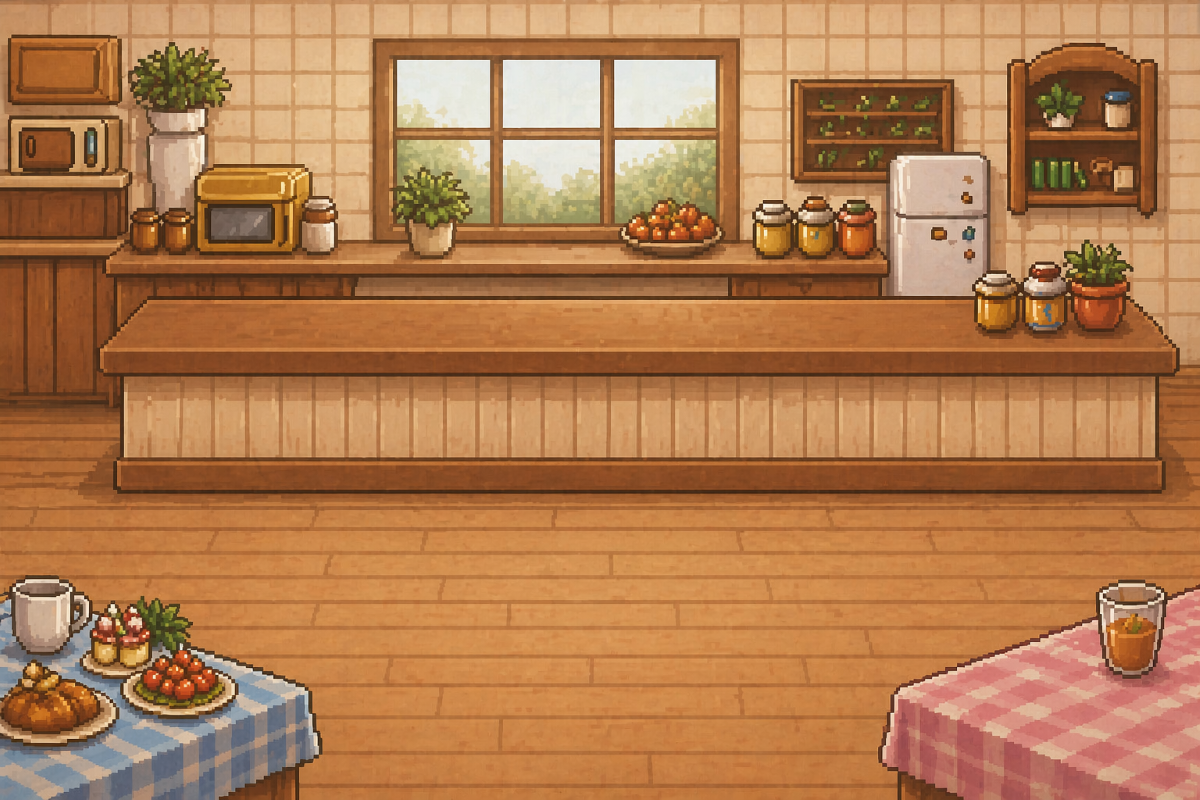
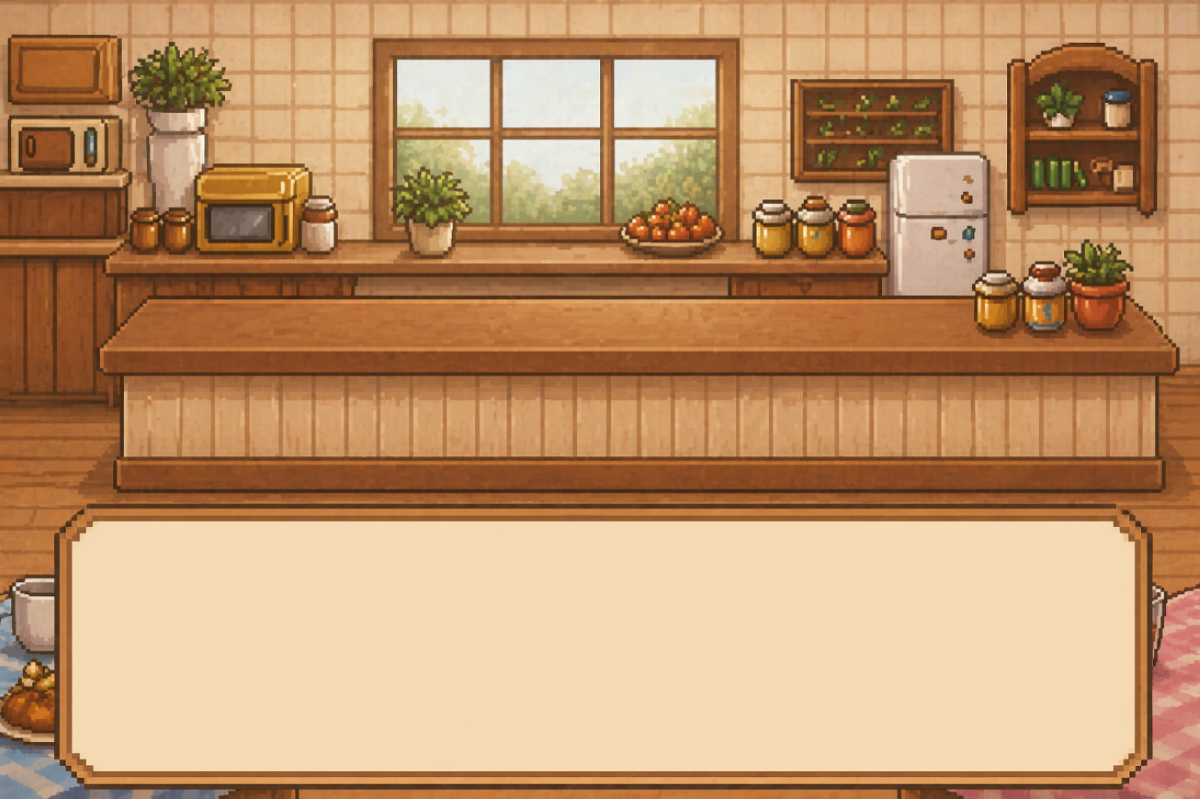
changed delayCounter

diff --git a/Group 5 Simulation/StoryWorld.java b/Group 5 Simulation/StoryWorld.java
@@ -4,12 +4,11 @@ import java.util.ArrayList;
 /**
  * Write a description of class StoryWorld here.
  * 
- * @author (your name) 
+ * @author (Marina with help from Aiza) 
  * @version (a version number or a date)
  */
 public class StoryWorld extends World
 {
-    private int timer = 1000;
     private GreenfootImage ownerImage;
     private TextLine[] fullText = {
         new TextLine("Gordon Ramsay", "Welcome back to the long awaited finale of the 25th season of Hell's Kitchen! I hope you're hungry because our 2 finalist will be cooking up some delicious dished for everyone."),
@@ -46,7 +45,7 @@ public class StoryWorld extends World
     {    
         // Create a new world with 1200x800 cells with a cell size of 1x1 pixels.
         super(1200, 800, 1); 
-        background = new GreenfootImage("images/Background/StoryWorld2.png");
+        background = new GreenfootImage("images/Background/StoryWorld.png");
         setBackground(background);
         Greenfoot.setWorld(this);
         
@@ -66,8 +65,8 @@ public class StoryWorld extends World
         // checks if line not completed and if there's more characters to type
         if (!lineComplete && charCount < fullText[currentLine].message.length()) {
             delayCounter++;
-            // delay each character display by 2 frames 
-            if (delayCounter >= 2) {
+            // delay each character display by 1 frame
+            if (delayCounter >= 1) {
                 delayCounter = 0;
                 charCount++;
                 displayedText = fullText[currentLine].message.substring(0, charCount);
@@ -75,7 +74,6 @@ public class StoryWorld extends World
             }
             
         } else if (!lineComplete && charCount >= fullText[currentLine].message.length()) {
-            
             lineComplete = true;
             updateWorldText();
             

diff --git a/Group 5 Simulation/ContinueButton.java b/Group 5 Simulation/ContinueButton.java
@@ -3,7 +3,7 @@ import greenfoot.*;  // (World, Actor, GreenfootImage, Greenfoot and MouseInfo)
 /**
  * Write a description of class ContinueButton here.
  * 
- * @author (your name) 
+ * @author (Marina) 
  * @version (a version number or a date)
  */
 public class ContinueButton extends Button